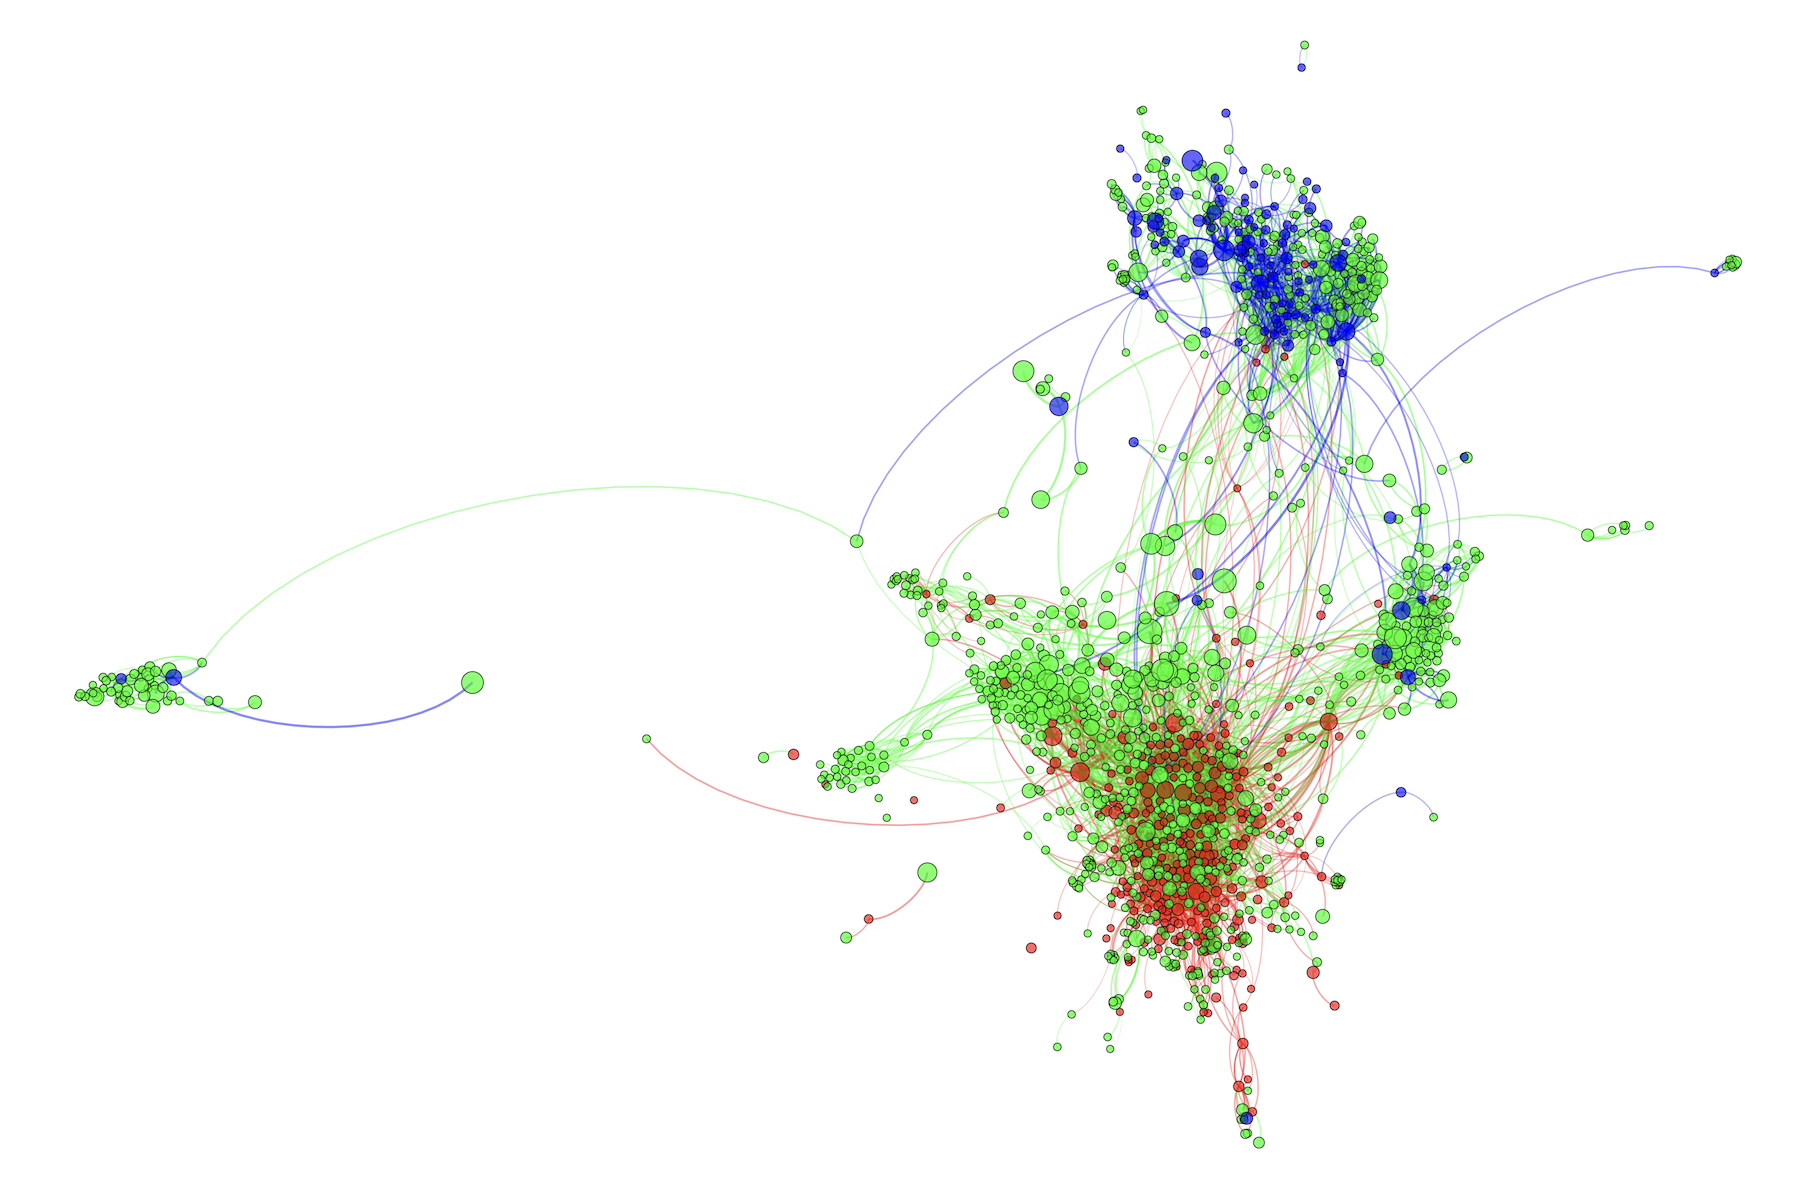
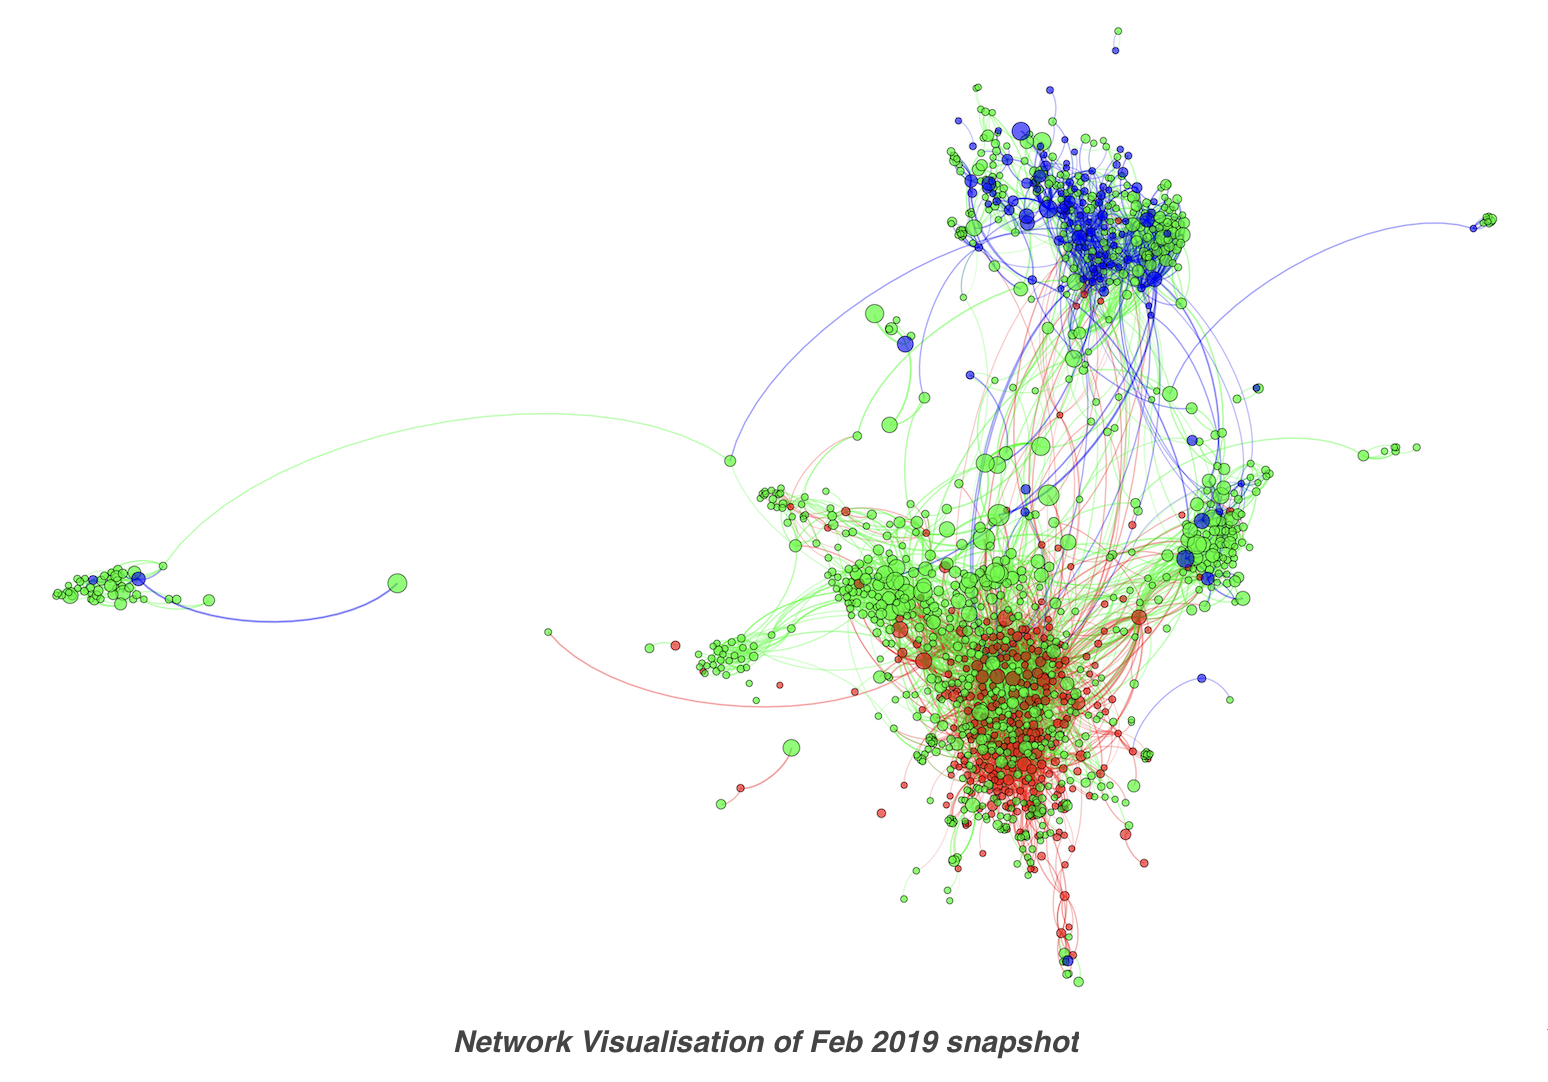
Update README

diff --git a/README.md b/README.md
@@ -11,12 +11,9 @@ Both of them are openly available and documented in two papers separately of dif
 To make it easier for other researchers to use this dataset, here we reorganize both versions of this dataset in gpickle format (can be directly imported as attributed networks using Python) and in CSV format (for general use of the dataset).
 
 ### Description
-<figure>
-    <img src="Main Dataset/Figures/Data_Image.png" style="width:600px;"/>
-    <figcaption> Network Visualisation of Feb 2019 snapshot </figcaption>
-</figure>
+<img src="Main Dataset/Figures/Data_Image.png" style="width:800px;"/>
 
-Each node represents a public Facebook page that discusses vaccination topics. It is attributed with fan size, that is, the number of members who subscribe to the Facebook page, along with the other attribute polarity including anti-vaccination, pro-vaccination and neutral. Whereas its polarity remains the same for February and October snapshots, its fan size changes.
+Each node represents a public Facebook page that discusses vaccination topics. It is attributed with fan size, that is, the number of members who subscribe to the Facebook page, along with the other attribute polarity including **anti-vaccination (red), pro-vaccination (blue) and neutral (green)**. Whereas its polarity remains the same for February and October snapshots, its fan size changes.
 A directed edge from node A to B means page A recommends B to all its members at the page level. 
 During preprocessing, we define an edge weight to quantify the significance of each recommendation. It is obtained by the product of both ends fan size. 
 
